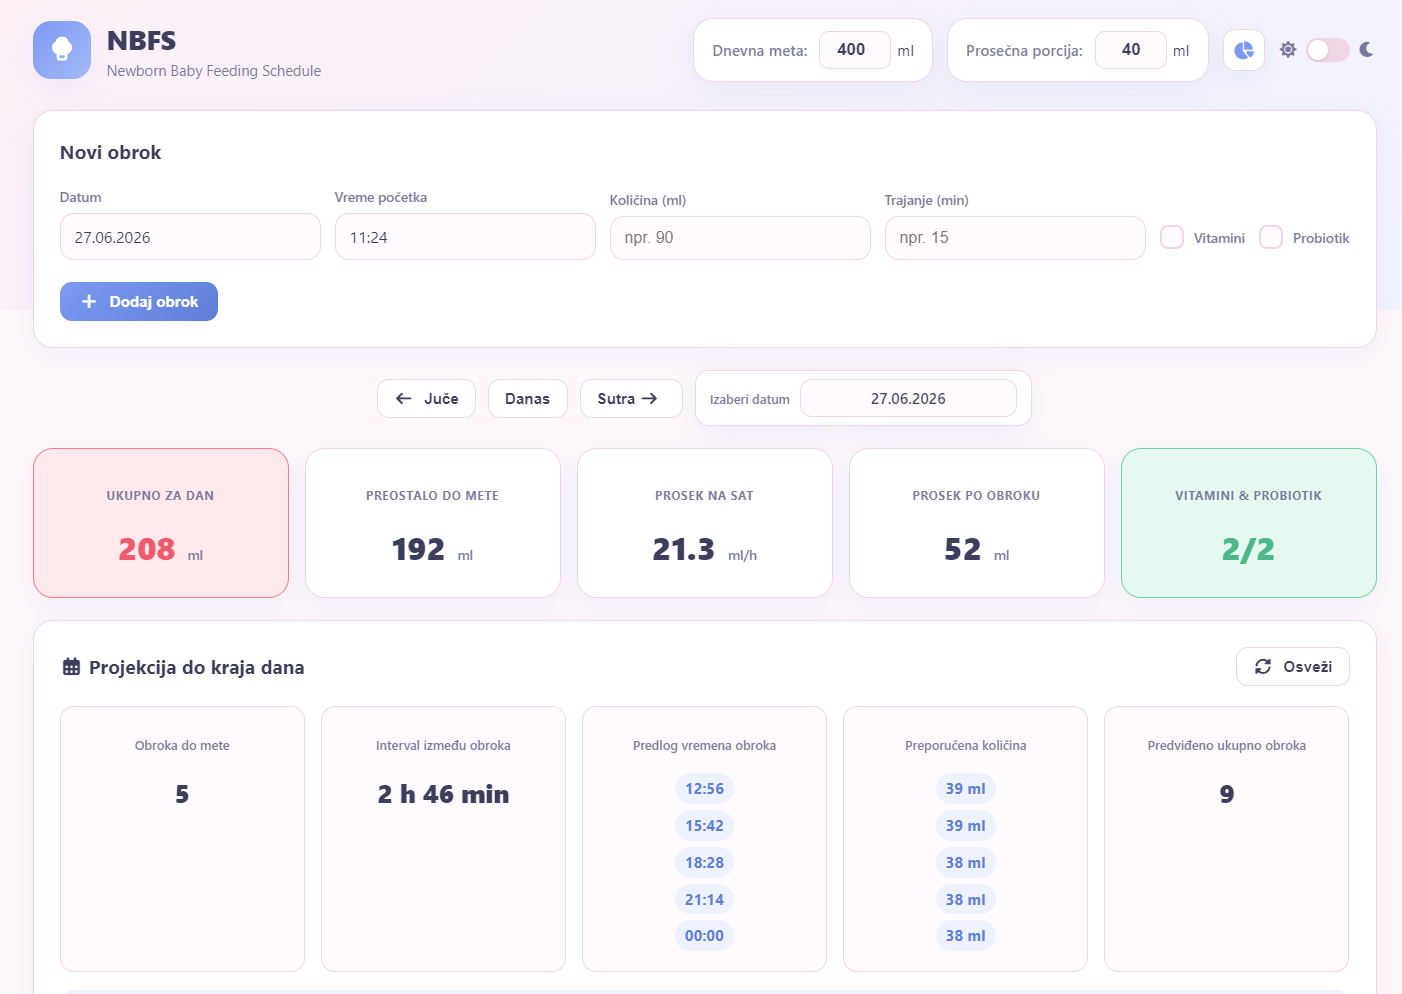
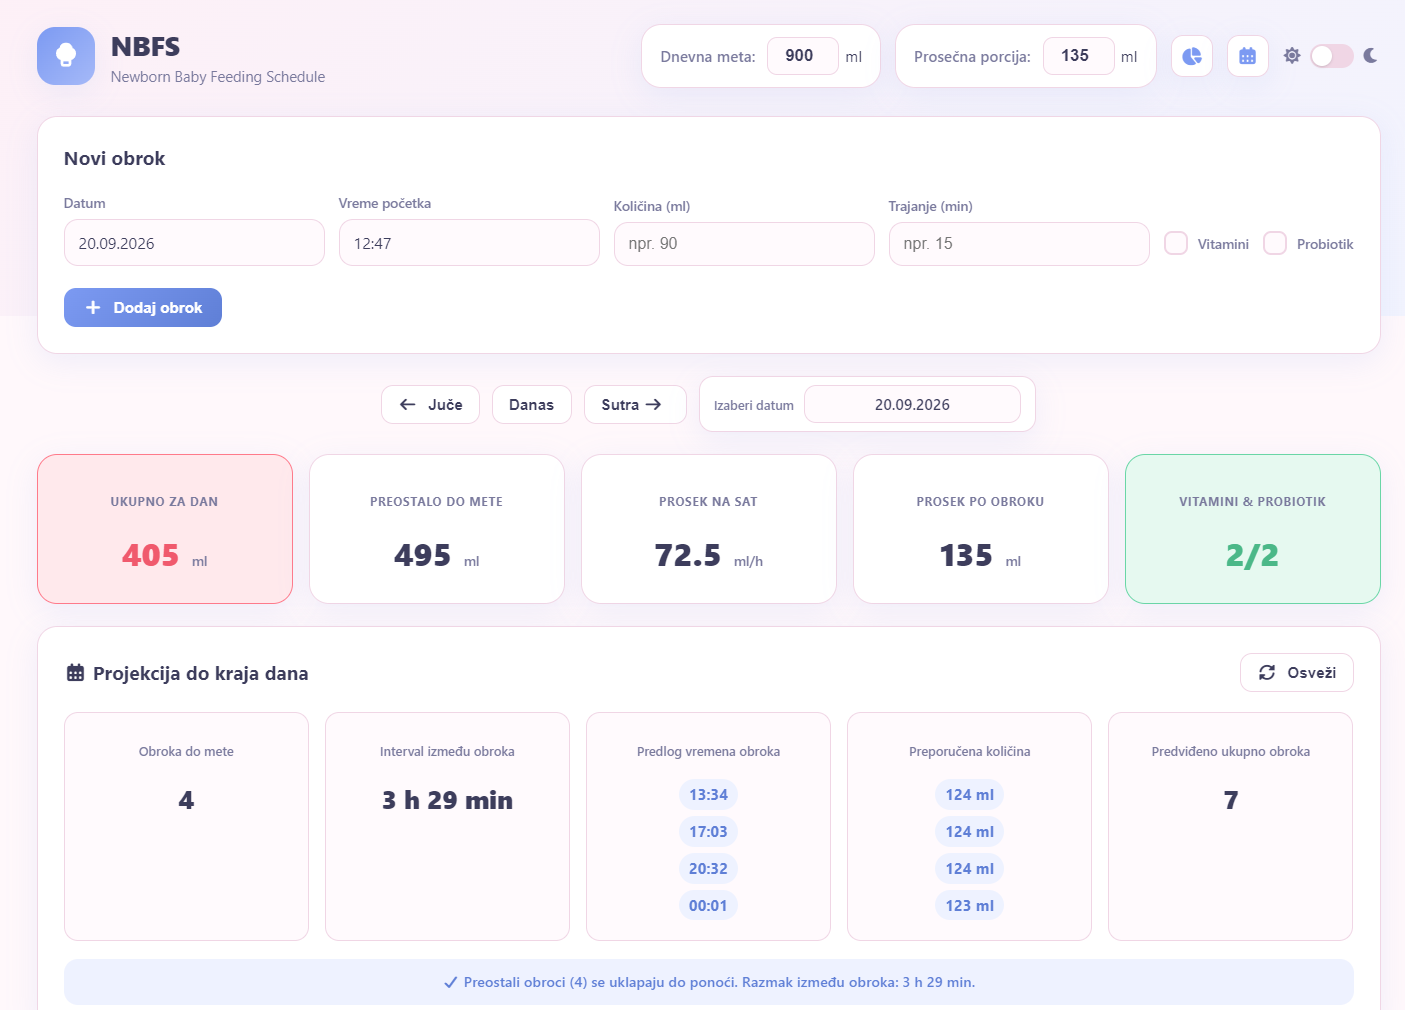
docs: kalendar termina i novi screenshot; bump dist v1.1.0

diff --git a/AGENTS.md b/AGENTS.md
@@ -68,6 +68,21 @@ Iz header-a se otvara poseban ekran sa grafičkim izveštajima (dugme pored dark
 
 Ekran izveštaja ima svoj date picker, pa nije potrebno vraćati se na početnu stranu za promenu datuma.
 
+### Kalendar termina
+Iz header-a se otvara poseban ekran sa kalendarom (dugme sa ikonicom kalendara pored dugmeta za izveštaje). Služi za beleženje doktorskih kontrola, pregleda i vakcinacija, umesto vođenja na papiru:
+- **Mesečna mreža** — ponedeljak je prvi dan u nedelji, nazivi dana i meseci su na srpskom (`sr-Latn`)
+- **Stanja dana**:
+  - prazan budući dan — normalan, klik otvara modal za novi termin
+  - popunjen budući dan — pastelna pozadina, klik selektuje dan i ispod mreže prikazuje listu termina sa izmenom i brisanjem, plus dugme **Dodaj termin** za dodatne termine istog dana
+  - prazan prošli dan — onemogućen, ne otvara se
+  - popunjen prošli dan — siva pozadina, otvara se samo na čitanje (read-only, bez izmene i brisanja)
+- **Mešovit dan** (jedan termin prošao, drugi tek dolazi) ostaje pastelne boje dok ima bar jedan budući termin; prošli red u listi je siv i read-only
+- **Prošlo** se računa po punom datumu i vremenu (`new Date(datetime) < new Date()`)
+- **Modal za termin** — datum je fiksan na izabrani dan (`DD.MM.YYYY`), vreme je obavezno u 24-časovnom formatu `HH:mm` (React time picker, bez AM/PM), plus naslov i opis; režimi su novi termin, izmena i pregled; brisanje ide kroz postojeći custom confirm modal
+- **Više termina po danu** je dozvoljeno
+- **Podsetnik na početnom ekranu** — kartica prikazuje sve termine od sada do 7 dana unapred (fiksno), sortirano po vremenu; sakrivena je kad nema zakazanih termina; klik na stavku vodi na kalendar za taj dan
+- Termini se čuvaju u novoj `appointments` tabeli (`id`, `datetime`, `title`, `description`); postojeći podaci o obrocima se ne diraju
+
 ### Ostale funkcije
 - **Dnevna meta** — podesiva, podrazumevano `400 ml`
 - **Prosečna porcija** — podesiva, podrazumevano `60 ml`, koristi se za projekciju
@@ -100,7 +115,7 @@ npm run dist
 Rezultat se nalazi u `dist/` folderu:
 
 ```
-dist/NBFS 1.0.0.exe
+dist/NBFS 1.1.0.exe
 ```
 
 Ovo je **portable** izvršna datoteka — nema potrebe za instalacijom.

diff --git a/README.md b/README.md
@@ -33,6 +33,11 @@ Jednostavna desktop aplikacija za praćenje unosa mleka kod novorođenčadi. Raz
   - **Dnevni obrazac hranjenja** — raspored unosa po satima
   - **Dan / noć** — udeo mleka unetog danju i noću
   - **Intervali između obroka** — razmaci između uzastopnih obroka
+- **Kalendar termina** — poseban ekran iz header-a (ikonica kalendara) za doktorske kontrole, preglede i vakcinacije:
+  - mesečna mreža, ponedeljak je prvi dan, nazivi na srpskom
+  - popunjen budući dan ima pastelnu pozadinu i listu termina sa izmenom, brisanjem i dugmetom za dodavanje; popunjen prošli dan je siv i otvara se samo na čitanje
+  - više termina po danu je dozvoljeno, vreme je obavezno u 24-časovnom `HH:mm` formatu
+  - podsetnik na početnom ekranu prikazuje sve termine u narednih 7 dana
 
 ## Tehnologije
 
@@ -59,7 +64,7 @@ npm run dist
 Izvršna datoteka se nalazi u `dist/` folderu:
 
 ```
-dist/NBFS 1.0.0.exe
+dist/NBFS 1.1.0.exe
 ```
 
 ## Struktura projekta
